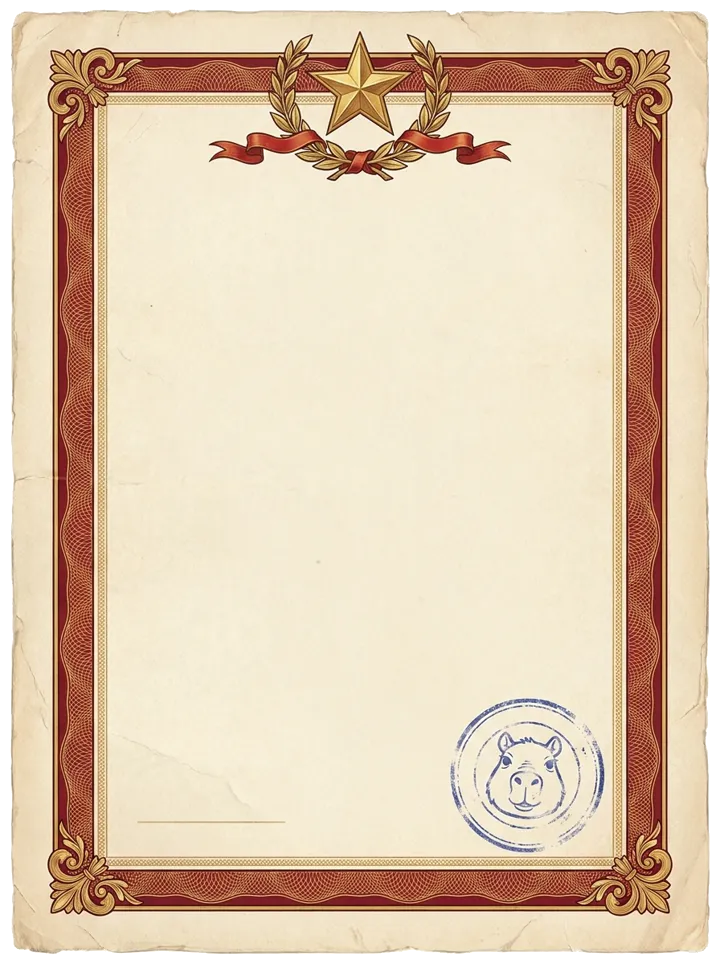
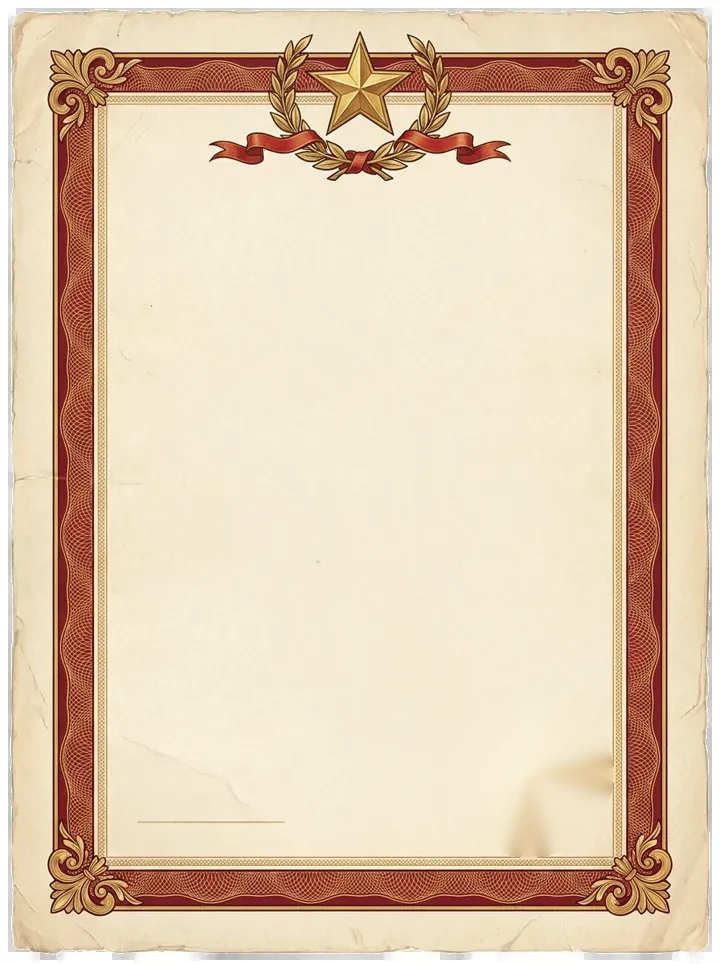
V673: Diplom – ein Strich mit Unterschrift, Stempel über der Unterschrift (EN/RU)
Claude-Session: https://claude.ai/code/session_019cECXDApTQimwz4ptPs7qF

diff --git a/site/index.html b/site/index.html
@@ -2826,7 +2826,7 @@ if(window.caches)p.push(caches.keys().then(function(ks){return Promise.all(ks.ma
 </div>
 
 <script>
-const GAME_VER = "V672";
+const GAME_VER = "V673";
 const LIN = { n: [11, 65], hp: [15.6, 1320.8], sp: [1.28, 1.67], g: [0.87, 0.61] };   /* V485: Start W1 → Ende W150, linear (Martin 08.11.) */
 function lin(k, w) { const a = LIN[k]; return a[0] + (a[1] - a[0]) * (Math.max(1, Math.min(150, w)) - 1) / 149; }
 /* ===== V456: Sprachschicht ===== */
@@ -12649,8 +12649,8 @@ body.inNuts header .djBox img{filter:brightness(1.3) drop-shadow(0 0 10px rgba(2
 </script><style id="v568cert">
 #tutSum .tsCard.cert{background:none!important;box-shadow:none!important;padding:0!important;width:min(94vw,380px,64vh);overflow:visible;max-height:none}
 #tutSum .cert::before,#tutSum .cert::after{display:none}
-#tutSum .ctPaper{position:relative;container-type:inline-size;aspect-ratio:720/964;background:url("img/cert_ru.webp?v=569") center/100% 100% no-repeat;filter:drop-shadow(0 12px 22px rgba(0,0,0,.55));padding:28% 14% 0;box-sizing:border-box;margin-bottom:12px}
-#tutSum .cert.us .ctPaper{background-image:url("img/cert_us.webp?v=568");padding:46% 12.5% 0}   /* V670 */
+#tutSum .ctPaper{position:relative;container-type:inline-size;aspect-ratio:720/964;background:url("img/cert_ru.webp?v=673") center/100% 100% no-repeat;filter:drop-shadow(0 12px 22px rgba(0,0,0,.55));padding:28% 14% 0;box-sizing:border-box;margin-bottom:12px}
+#tutSum .cert.us .ctPaper{background-image:url("img/cert_us.webp?v=673");padding:46% 12.5% 0}   /* V670 */
 #tutSum .ctPaper>img.ctHero,#tutSum .ctPaper .ctLaur,#tutSum .ctPaper .ctStamp{display:none!important}
 #tutSum .ctPaper .ctRib{background:none;clip-path:none;border:0;padding:0;margin:0 0 1cqw;color:#8a1f1f;font:700 3.2cqw/1 Georgia,serif;letter-spacing:.2em}
 #tutSum .cert.us .ctPaper .ctRib{position:absolute;left:27%;right:27%;top:27.6%;letter-spacing:.12em;white-space:nowrap;/* V654: nur über dem blauen Band */margin:0;color:#f3d77a;font-size:3.4cqw;text-shadow:0 1px 0 #0f2142}
@@ -12674,6 +12674,8 @@ body.inNuts header .djBox img{filter:brightness(1.3) drop-shadow(0 0 10px rgba(2
 #tutSum .cert.us .ctPaper .ctFoot{left:38.5%;bottom:11.2%}   /* V670: Name unter die Linie */
 #tutSum .ctPaper .ctSign em{font-size:6.6cqw;margin-bottom:1.2cqw!important}
 #tutSum .ctPaper .ctSign small{font-size:2.8cqw;border-top:0;padding-top:1.4cqw}
+#tutSum .ctPaper::after{content:"";position:absolute;z-index:3;pointer-events:none;left:24.9%;top:76.2%;width:17%;aspect-ratio:169/168;background:url("img/stamp_ru.webp?v=673") center/contain no-repeat;transform:rotate(-12deg);mix-blend-mode:multiply;opacity:.9}   /* V673: Stempel über der Unterschrift */
+#tutSum .cert.us .ctPaper::after{left:46.5%;top:77.6%;width:16.7%;aspect-ratio:120/116;background-image:url("img/stamp_us.webp?v=673")}
 #tutSum .cert>.ctPrize{display:block;width:max-content;margin:0 auto 10px}
 #tutSum .cert>button{display:block;width:100%}
 </style>

diff --git a/tools/cert673_img.py b/tools/cert673_img.py
@@ -1,0 +1,20 @@
+# V673: Diplom-Bilder – zweiten Strich + Stempel aus dem Papier entfernen, Stempel als eigenes Bild (stamp_us/ru.webp)
+from PIL import Image; import numpy as np, cv2
+def save_stamp(a, bg, m, box, name, ink=None):
+    x0,y0,x1,y1 = box; A=a[y0:y1,x0:x1].astype(float); B=bg[y0:y1,x0:x1].astype(float)
+    dark=(B.mean(2)-A.mean(2)).clip(0); dark[dark<6]=0; dark[m[y0:y1,x0:x1]==0]=0
+    if ink is None: ink=A[dark>dark.max()*0.6].mean(0)
+    al=(dark/(B.mean(2)-np.mean(ink)).clip(20)).clip(0,1)
+    Image.fromarray(np.dstack([np.broadcast_to(np.array(ink),A.shape).astype(np.uint8),(al*255).astype(np.uint8)]),'RGBA').save(f'site/img/{name}',lossless=True)
+# US
+a=np.asarray(Image.open('site/img/cert_us.webp').convert('RGB')).copy(); g=a.astype(int).sum(2)
+m=np.zeros(a.shape[:2],np.uint8); m[690:806,488:608]=(g[690:806,488:608]<700)*255; m[825:834,465:626]=255
+m=cv2.dilate(m,np.ones((5,5),np.uint8)); bg=cv2.inpaint(a[:,:,::-1].copy(),m,7,cv2.INPAINT_TELEA)[:,:,::-1]
+m2=m.copy(); m2[825:834,465:626]=0
+save_stamp(a,bg,m2,(488,690,608,806),'stamp_us.webp'); Image.fromarray(bg).save('site/img/cert_us.webp',quality=90,method=6)
+# RU
+a=np.asarray(Image.open('site/img/cert_ru.webp').convert('RGB')).copy()
+m=np.zeros(a.shape[:2],np.uint8); cv2.ellipse(m,(529,774),(84,83),0,0,360,255,-1)
+bg=cv2.inpaint(a[:,:,::-1].copy(),m,9,cv2.INPAINT_TELEA)[:,:,::-1]
+save_stamp(a,bg,m,(445,690,614,858),'stamp_ru.webp'); Image.fromarray(bg).save('site/img/cert_ru.webp',quality=90,method=6)
+print("img ok")

diff --git a/tools/patch673.py b/tools/patch673.py
@@ -1,0 +1,12 @@
+# V673: Diplom – nur ein Strich (Unterschrift), Stempel liegt über der Unterschrift (EN/ES/PT/DE + RU)
+import sys
+src, dst = sys.argv[1], sys.argv[2]
+s = open(src, encoding="utf8").read()
+def rep(a, b, n=1):
+    global s; c = s.count(a); assert c == n, (a[:60], c); s = s.replace(a, b)
+rep('img/cert_ru.webp?v=569', 'img/cert_ru.webp?v=673')
+rep('img/cert_us.webp?v=568', 'img/cert_us.webp?v=673')
+A = '#tutSum .ctPaper .ctSign small{font-size:2.8cqw;border-top:0;padding-top:1.4cqw}'
+rep(A, A + '\n#tutSum .ctPaper::after{content:"";position:absolute;z-index:3;pointer-events:none;left:24.9%;top:76.2%;width:17%;aspect-ratio:169/168;background:url("img/stamp_ru.webp?v=673") center/contain no-repeat;transform:rotate(-12deg);mix-blend-mode:multiply;opacity:.9}   /* V673: Stempel über der Unterschrift */\n#tutSum .cert.us .ctPaper::after{left:46.5%;top:77.6%;width:16.7%;aspect-ratio:120/116;background-image:url("img/stamp_us.webp?v=673")}')
+rep('const GAME_VER = "V672"', 'const GAME_VER = "V673"')
+open(dst, "w", encoding="utf8").write(s); print("ok")
